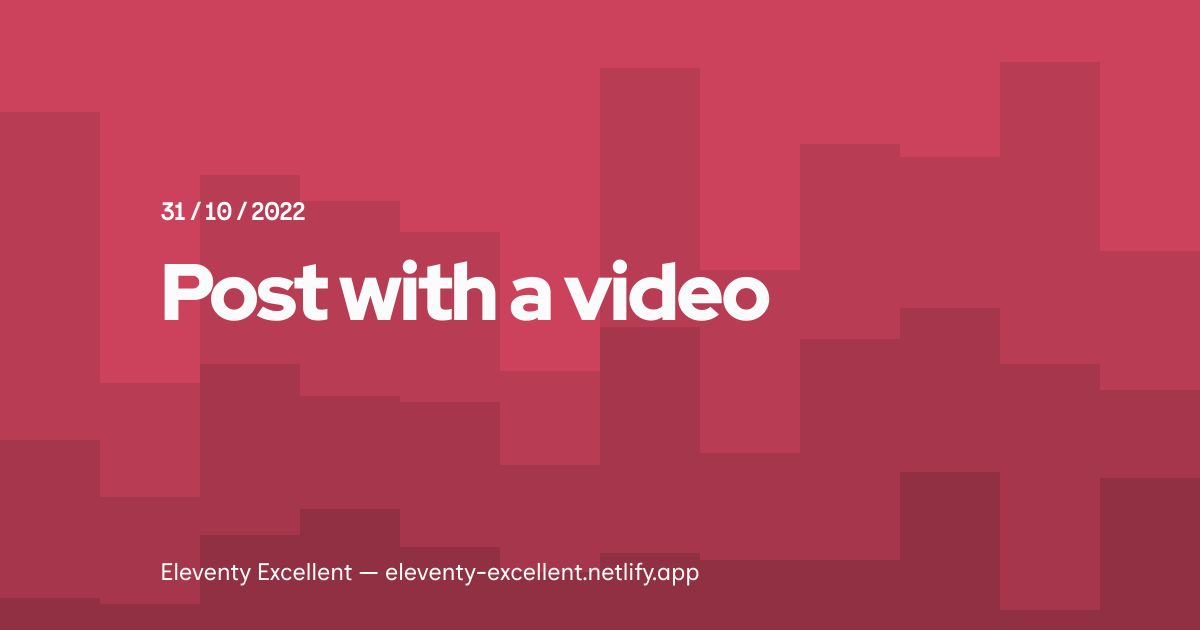
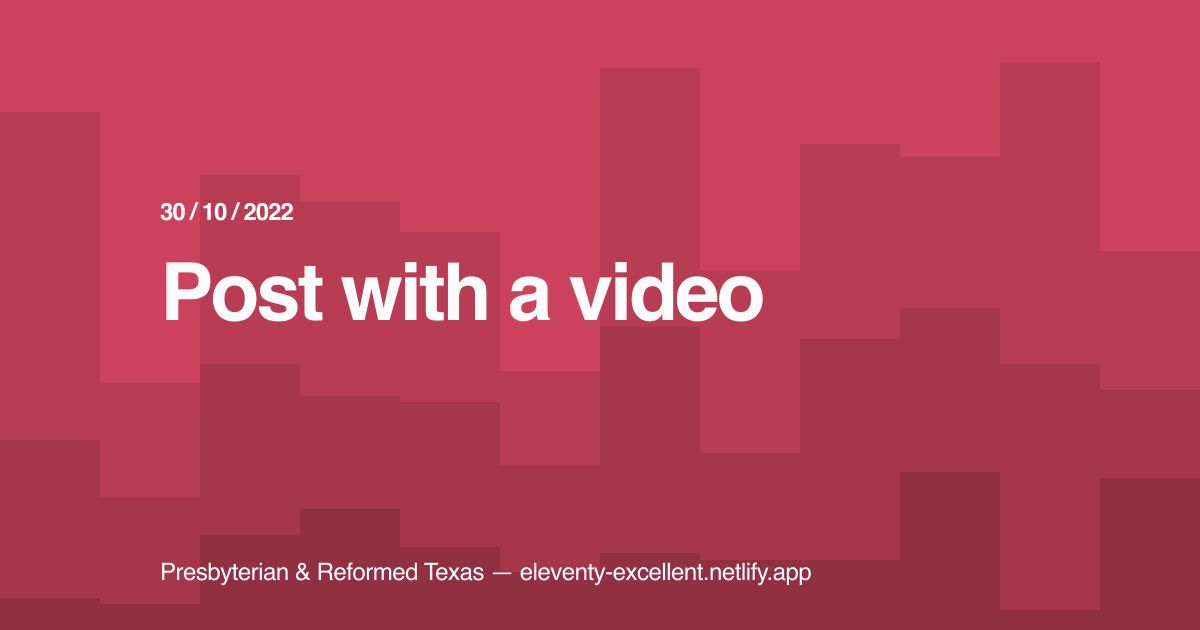
initial commit

Changed region(s): [[0.1233, 0.3921, 0.6475, 0.5127], [0.1233, 0.8746, 0.6783, 0.9349], [0.1233, 0.3016, 0.2775, 0.3619]]

diff --git a/src/_data/meta.js b/src/_data/meta.js
@@ -1,5 +1,5 @@
-export const url = process.env.URL || 'http://localhost:8080';
-export const siteName = 'Eleventy Excellent';
+export const url = process.env.URL || 'http://localhost:8081';
+export const siteName = 'Presbyterian & Reformed Texas';
 export const siteDescription = 'Eleventy starter for building modern, resilient websites';
 export const siteType = 'Person'; // schema
 export const locale = 'en_EN';
@@ -9,12 +9,12 @@ export const author = {
   name: 'Lene Saile', // i.e. Lene Saile - page / blog author's name. Must be set.
   avatar: '/icon-512x512.png', // path to the author's avatar. In this case just using a favicon.
   email: 'hola@lenesaile.com', // i.e. hola@lenesaile.com - email of the author
-  website: 'https://www.lenesaile.com' // i.e. https.://www.lenesaile.com - the personal site of the author
+  website: 'https://www.ecrosstexas.com' // i.e. https.://www.lenesaile.com - the personal site of the author
 };
 export const creator = {
   name: 'Lene Saile', // i.e. Lene Saile - creator's (developer) name.
   email: 'hola@lenesaile.com',
-  website: 'https://www.lenesaile.com',
+  website: 'https://www.ecrosstexas.com',
   social: 'https://front-end.social/@lene'
 };
 export const pathToSvgLogo = 'src/assets/svg/misc/logo.svg'; // used for favicon generation
